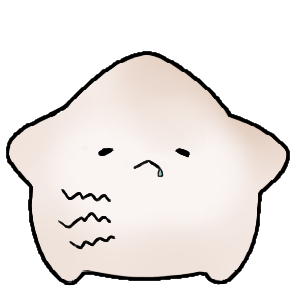
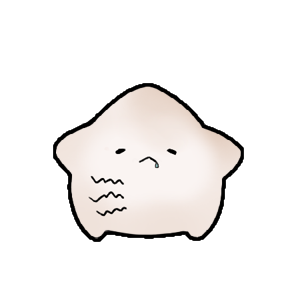
hungry frames update and fixed drag

diff --git a/horizons/pet.py b/horizons/pet.py
@@ -44,7 +44,6 @@ class VirtualPet(tk.Tk):
         # Schedule updating the pet image
         self.update_pet_image()
 
-<<<<<<< HEAD
         # Create right-click pop-up menu
         self.menu = tk.Menu(self, tearoff=0)
         self.menu.add_command(label="Exit", command=self.quit)
@@ -62,26 +61,9 @@ class VirtualPet(tk.Tk):
             self.current_image_index = 0
             self.curr_anim_speed = 90
             print("Trying to be happy...")
-=======
-        # creates right click pop-up, floating menu
-        self.menu = tk.Menu(self, tearoff=0)
-        self.menu.add_command(label = "Exit", command = self.quit)
-        #self.menu.add_separator()
-        self.bind("<Button-3>", self.popup)
 
-
-
-
-    def popup(self, e):
-        self.menu.tk_popup(e.x, e.y)   
-
-    def interact_with_pet(self):
-        self.state = "happy"
-        self.pet_images = self.load_pet_images(self.state)
-        self.current_image_index = 0
-        print("Trying to be happy...")
->>>>>>> 9b447382053addeb3eaa91f1c5ca89f57f411c80
-        return
+        self.start_x = event.x
+        self.start_y = event.y
 
     def load_pet_images(self, name):
         pet_images = []
@@ -120,11 +102,6 @@ class VirtualPet(tk.Tk):
         self.state = "idle"
         self.curr_anim_speed = 200
         self.pet_images = self.load_pet_images(self.state)
-
-    def start_drag(self, event):
-        # Record the starting position of the mouse when dragging starts
-        self.start_x = event.x
-        self.start_y = event.y
 
     def dragging(self, event):
         # Calculate the distance moved by the mouse
